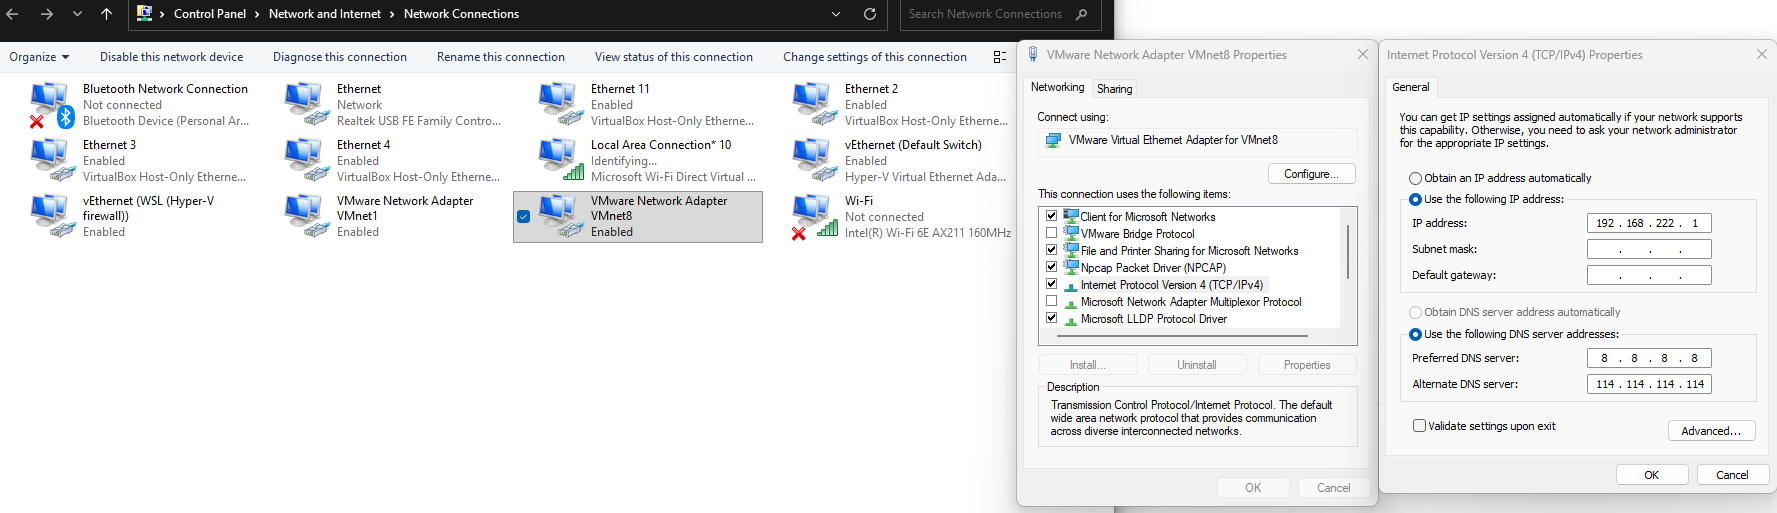
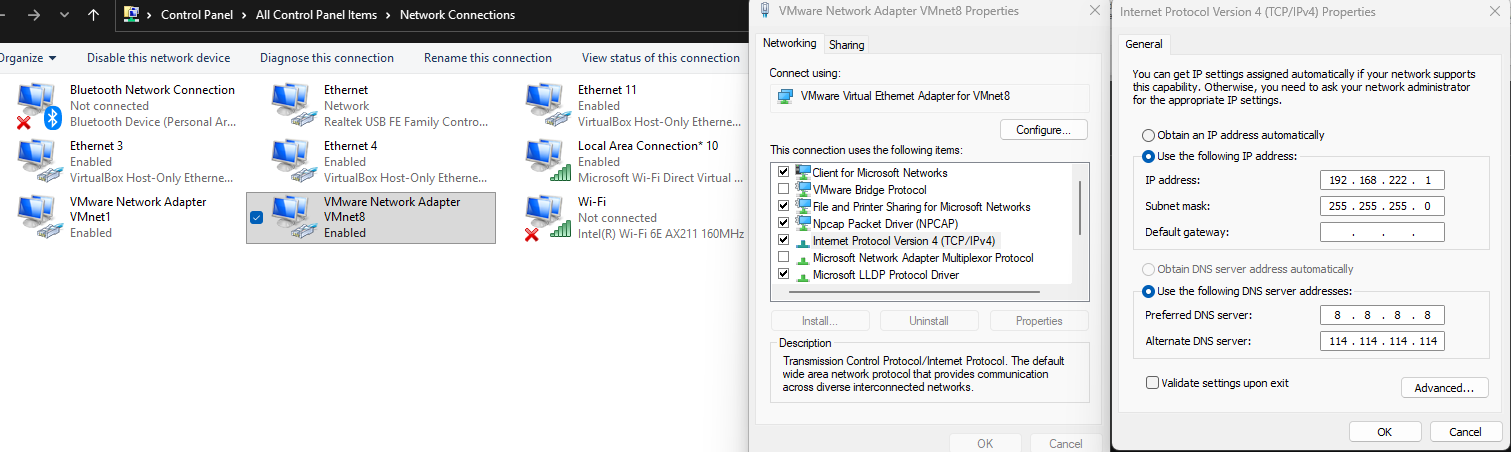
set static ip for vm

Changed region(s): [[0.0, 0.0, 1.0, 1.0], [0.7154, 0.0, 0.9021, 0.0619]]

diff --git a/app/processor/import_processor/nodes/node_document_split.py b/app/processor/import_processor/nodes/node_document_split.py
@@ -241,6 +241,7 @@ class NodeDocumentSplit(BaseNode):
 
         merged_sections = []  # 最终合并结果
         current_chunk = None  # 迭代累加器：保存当前待合并的Chunk
+        merge_count = 1
 
         for sec in sections:
             # 初始化：第一个Chunk直接作为当前待合并块
@@ -251,6 +252,7 @@ class NodeDocumentSplit(BaseNode):
             # 合并条件：1.当前块长度不足阈值 2.与下一块同父标题（同属一个原章节）
             is_current_short = len(current_chunk["content"]) < self.config.min_content_length
             is_same_parent = current_chunk.get("parent_title") == sec.get("parent_title")
+            self.logger.debug(current_chunk.get("parent_title"), sec.get("parent_title"), "满足合并条件 =", is_same_parent)
 
             if is_current_short and is_same_parent:
                 # 合并前清理：去掉下一块开头重复的父标题，避免内容冗余
@@ -260,14 +262,16 @@ class NodeDocumentSplit(BaseNode):
                     next_content = next_content[len(parent_title):].lstrip()
                 # 合并内容：空行分隔，保证格式整洁
                 current_chunk["content"] += "\n\n" + next_content
+                merge_count += 1
                 # 更新子Chunk序号：保留最新序号，便于溯源
                 if "part" in sec:
                     current_chunk["part"] = sec["part"]
-                self.logger.debug(f"合并短Chunk：{current_chunk.get('parent_title')} → 累计长度{len(current_chunk['content'])}")
+                self.logger.debug(f"合并短Chunk：{current_chunk.get('parent_title') or current_chunk.get('title')} → 累计长度{len(current_chunk['content'])}，合并Chunk {merge_count} 个")
             else:
                 # 不满足合并条件：将当前块加入结果，切换为新的待合并块
                 merged_sections.append(current_chunk)
                 current_chunk = sec
+                merge_count = 1
 
         # 循环结束后，将最后一个待合并块加入结果
         if current_chunk is not None:
@@ -356,7 +360,7 @@ if __name__ == "__main__":
     logging.getLogger().info(json.dumps(result["chunks"], ensure_ascii=False, indent=4))
 
 """
-(knowledge-base) PS D:\code\atguigu\knowledge-base> python -m app.processor.import_processor.nodes.node_document_split
+(knowledge-base) PS D:\knowledge-base> python -m app.processor.import_processor.nodes.node_document_split
 config loaded True...
 ImportConfig instance not found...
 creating ImportConfig instance...
@@ -431,5 +435,4 @@ creating ImportConfig instance...
         "parent_title": "## 产品中有害物质的名称及含量"
     }
 ]
-(knowledge-base) PS D:\code\atguigu\knowledge-base>
 """

diff --git a/app/test/06_split_sections.py b/app/test/06_split_sections.py
@@ -208,6 +208,7 @@ def merge_short_sections(sections: List[Dict[str, str]]) -> List[Dict[str, str]]
 
     merged_sections = []  # 最终合并结果
     current_chunk = None  # 迭代累加器：保存当前待合并的Chunk
+    merge_count = 1
 
     for sec in sections:
         # 初始化：第一个Chunk直接作为当前待合并块
@@ -218,6 +219,7 @@ def merge_short_sections(sections: List[Dict[str, str]]) -> List[Dict[str, str]]
         # 合并条件：1.当前块长度不足阈值 2.与下一块同父标题（同属一个原章节）
         is_current_short = len(current_chunk["content"]) < get_config().min_content_length
         is_same_parent = current_chunk.get("parent_title") == sec.get("parent_title")
+        print(current_chunk.get("parent_title"), sec.get("parent_title"), "满足合并条件 =", is_same_parent)
 
         if is_current_short and is_same_parent:
             # 合并前清理：去掉下一块开头重复的父标题，避免内容冗余
@@ -230,11 +232,13 @@ def merge_short_sections(sections: List[Dict[str, str]]) -> List[Dict[str, str]]
             # 更新子Chunk序号：保留最新序号，便于溯源
             if "part" in sec:
                 current_chunk["part"] = sec["part"]
-            print(f"合并短Chunk：{current_chunk.get('parent_title')} → 累计长度{len(current_chunk['content'])}")
+            merge_count += 1
+            print(f"合并短Chunk：{current_chunk.get('parent_title') or current_chunk.get('title')} → 累计长度{len(current_chunk['content'])}，合并Chunk {merge_count} 个")
         else:
             # 不满足合并条件：将当前块加入结果，切换为新的待合并块
             merged_sections.append(current_chunk)
             current_chunk = sec
+            merge_count = 1
 
     # 循环结束后，将最后一个待合并块加入结果
     if current_chunk is not None:
@@ -244,7 +248,7 @@ def merge_short_sections(sections: List[Dict[str, str]]) -> List[Dict[str, str]]
     return merged_sections
 
 
-with open("./docs/07【掌柜智库】【导入】文档切片.md", "r", encoding="utf-8") as f:
+with open("./test_data/kb/07【掌柜智库】【导入】文档切片.md", "r", encoding="utf-8") as f:
     content = f.read()
 sections, _, _ = split_by_titles_v2(content, "test")
 rprint(sections)
@@ -252,8 +256,10 @@ rprint(sections)
 refined = []
 for sec in sections:
     refined.extend(split_long_section(sec))
+rprint("refined", refined)
 
-merge_short_sections(refined)
+final = merge_short_sections(refined)
+rprint("final", final)
 
 with open("./run_test.bat", "r", encoding="utf-8") as f:
     content = f.read()

diff --git a/app/processor/import_processor/nodes/node_item_name_recognition.py b/app/processor/import_processor/nodes/node_item_name_recognition.py
@@ -245,7 +245,7 @@ if __name__ == "__main__":
     logging.getLogger().info(json.dumps(result, ensure_ascii=False, indent=4))
 
 """
-(knowledge-base) PS D:\code\atguigu\knowledge-base> python -m app.processor.import_processor.nodes.node_item_name_recognition
+(knowledge-base) PS D:\knowledge-base> python -m app.processor.import_processor.nodes.node_item_name_recognition
 config loaded True...
 ImportConfig instance not found...
 creating ImportConfig instance...

diff --git a/infra/02_env_setup.md b/infra/02_env_setup.md
@@ -1,5 +1,7 @@
 ## config VMnet8 adapter on host machine
-![1783471092531](image/02_env_setup/1783471092531.png)
+win + R >  ncpa.cpl  
+![alt text](image/02_env_setup/ncpa.png)  
+![1783471092531](image/02_env_setup/1783471092531.png)  
 
 ## config vm network adaptor (NAT)
 ![1783434137317](image/02_env_setup/1783434137317.png)
@@ -29,6 +31,34 @@ NETMASK=255.255.255.0
 DNS1=192.168.100.2
 DNS2=8.8.8.8
 DNS3=114.114.114.114
+ONBOOT=yes
+BOOTPROTO=static
+```
+
+```bash
+[root@localhost ~]# cd /etc/sysconfig/network-scripts/
+[root@localhost network-scripts]# cat ifcfg-ens33
+IPADDR=192.168.222.8
+GATEWAY=192.168.222.2
+NETMASK=255.255.255.0
+DNS1=192.168.222.2
+DNS2=8.8.8.8
+DNS3=114.114.114.114
+TYPE=Ethernet
+PROXY_METHOD=none
+BROWSER_ONLY=no
+#BOOTPROTO=dhcp
+BOOTPROTO=static
+DEFROUTE=yes
+IPV4_FAILURE_FATAL=no
+IPV6INIT=yes
+IPV6_AUTOCONF=yes
+IPV6_DEFROUTE=yes
+IPV6_FAILURE_FATAL=no
+IPV6_ADDR_GEN_MODE=stable-privacy
+NAME=ens33
+UUID=486a8ac0-8d5a-483b-adc3-c7381492ac63
+DEVICE=ens33
 ONBOOT=yes
 
 ping 8.8.8.8
